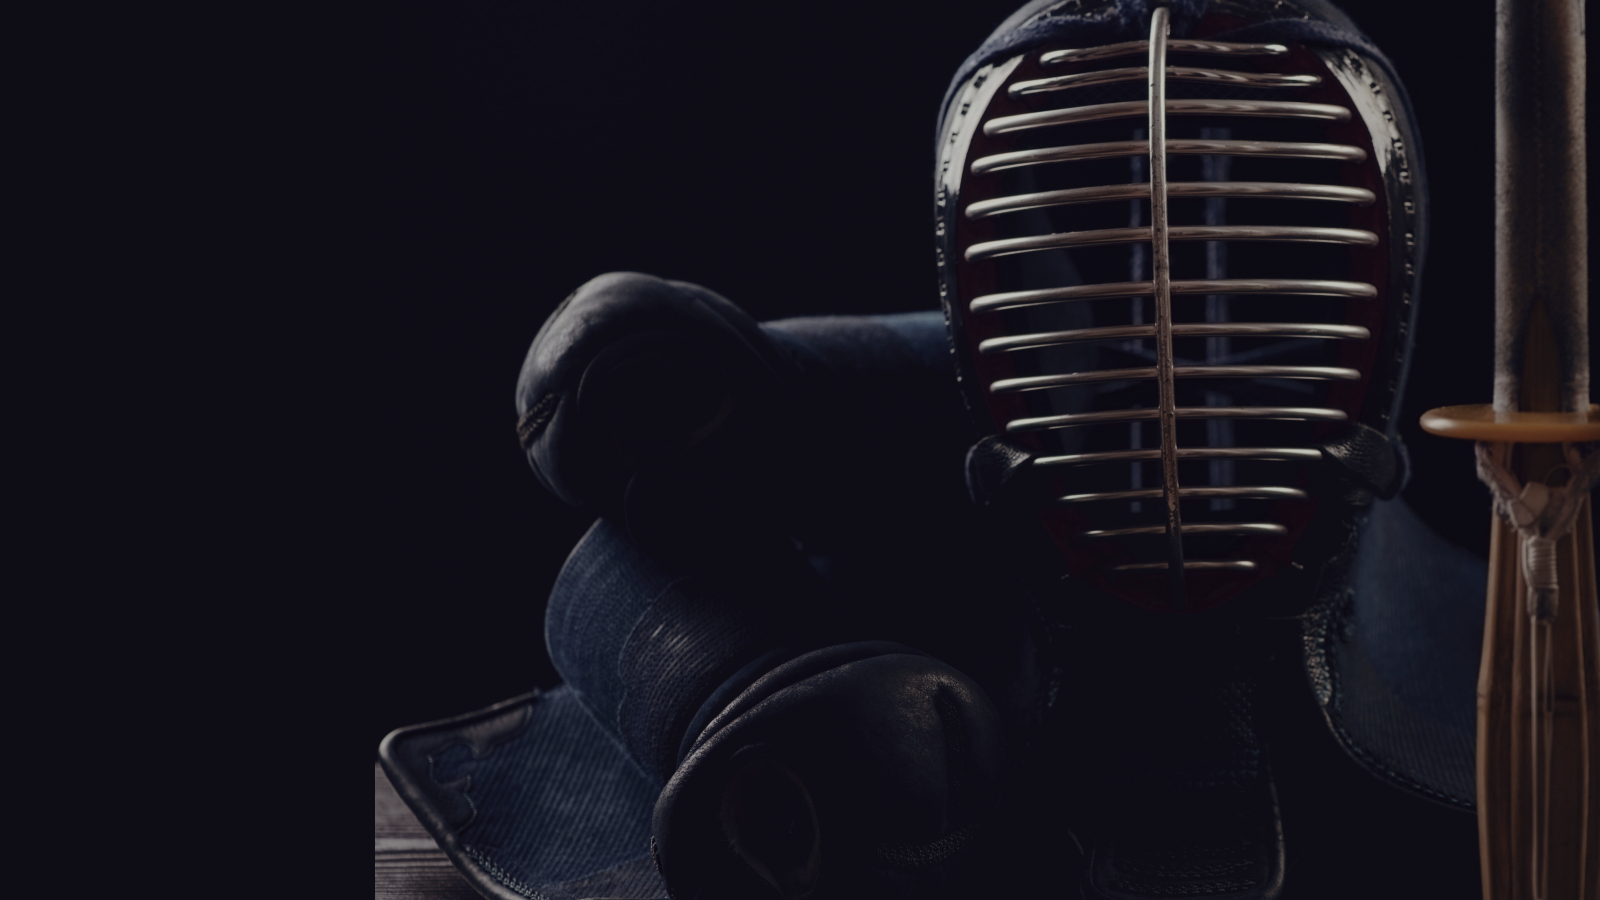
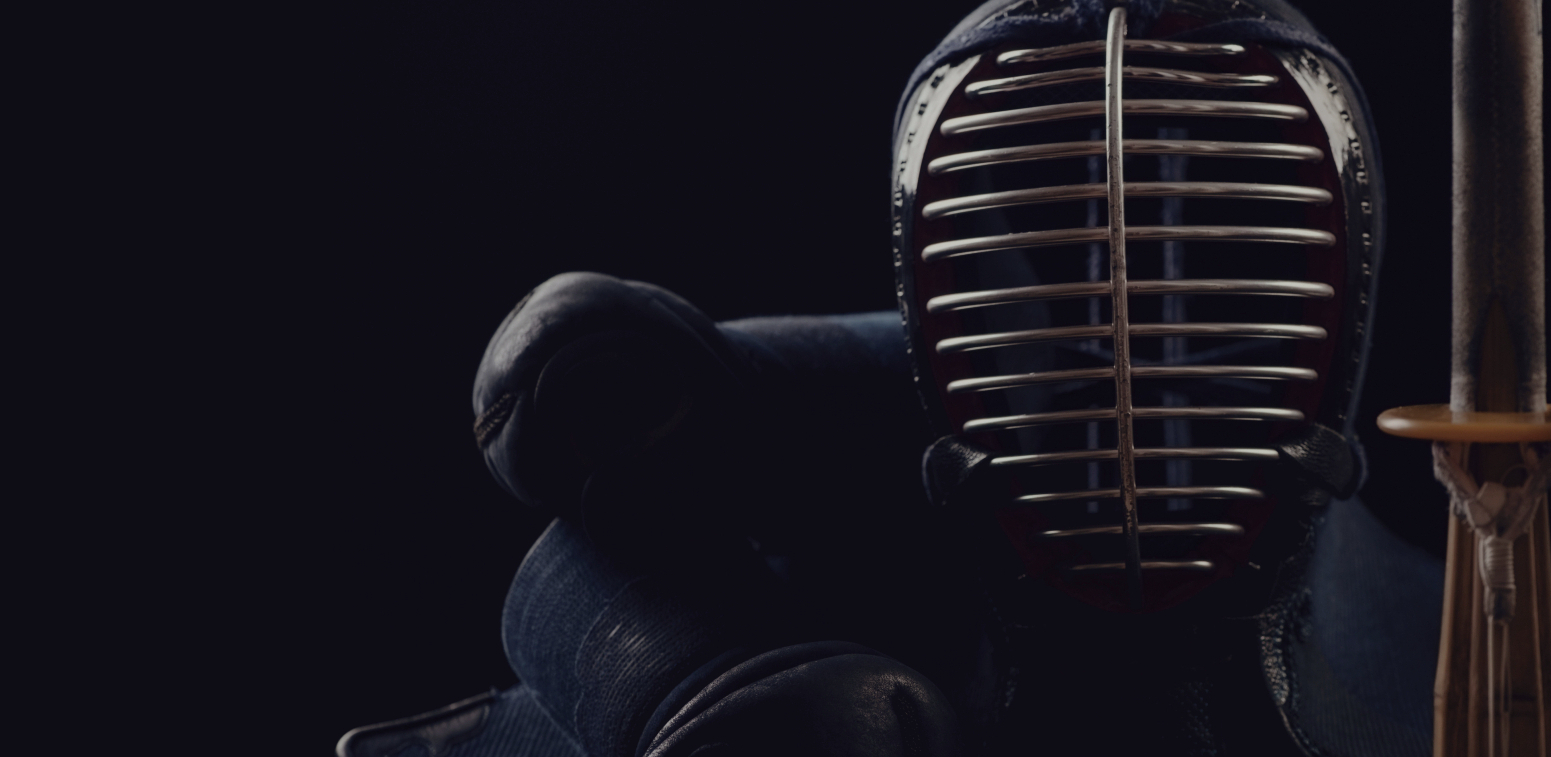
fiz index image resize

diff --git a/css/style.css b/css/style.css
@@ -6,6 +6,10 @@
     box-sizing: border-box;
     
 }
+.responsive
+{
+    overflow-x: hiddens;
+}
 
 /*Tags Geral */
 
@@ -25,6 +29,7 @@ body
 {
     display: flex;
     justify-content: center;
+    flex-wrap: wrap;
     gap: 150px;
   
     
@@ -116,25 +121,27 @@ body
 
 /* Chamada */
 
-.chamada
-{
-    background-image: url(/Imagem/kendobanner.jpeg);
-    background-repeat: no-repeat;
-    background-size: cover;
-    height: 100vh;
-    width: 100vw;
-    text-align: left;
-    display: flex;
-    flex-direction: column;
-    color: white;
-    
-}
-
 .chamada_texto
 {
+    /* background-image: url(/Imagem/kendobanner.jpeg);
+    background-repeat: no-repeat;
+    background-size: 100%;
+    color: white;
+    padding: 100px 0px;
+    
+    text-align: left;
+    display: flex;
+    gap: 30px;
+    flex-direction: column; */
+    display: inline-block;
+    position: relative;
+}
+.chamada_textos
+{
+    position: absolute;
+    top: 300px;
     font-size: 25px;
     font-family: 'Segoe UI', sans-serif;
-    padding: 150px 50px 80px 50px;
 }
 
 .chamada_texto_str

diff --git a/index.html b/index.html
@@ -37,6 +37,8 @@
     <main>
         
         <section class="chamada">
+            <img src="Imagem/kendobanner.jpeg" style="width: 100%; height: 637px; object-fit: cover; object-position: 50% 0;" class="responsive">
+            <div class = chamada_textos>
                 <div class="chamada_texto">
                     <strong class="chamada_texto_str">SEJA SEU PRÓPRIO SAMURAI!</strong> 
                     <br><br>
@@ -48,6 +50,7 @@
                 <div class = "chamada_link">
                     <a class = "chamada_link_botao" href="sejaalunokendo.html">Inscreva-se</a>
                 </div>
+            </div>
         </section>
             
             
